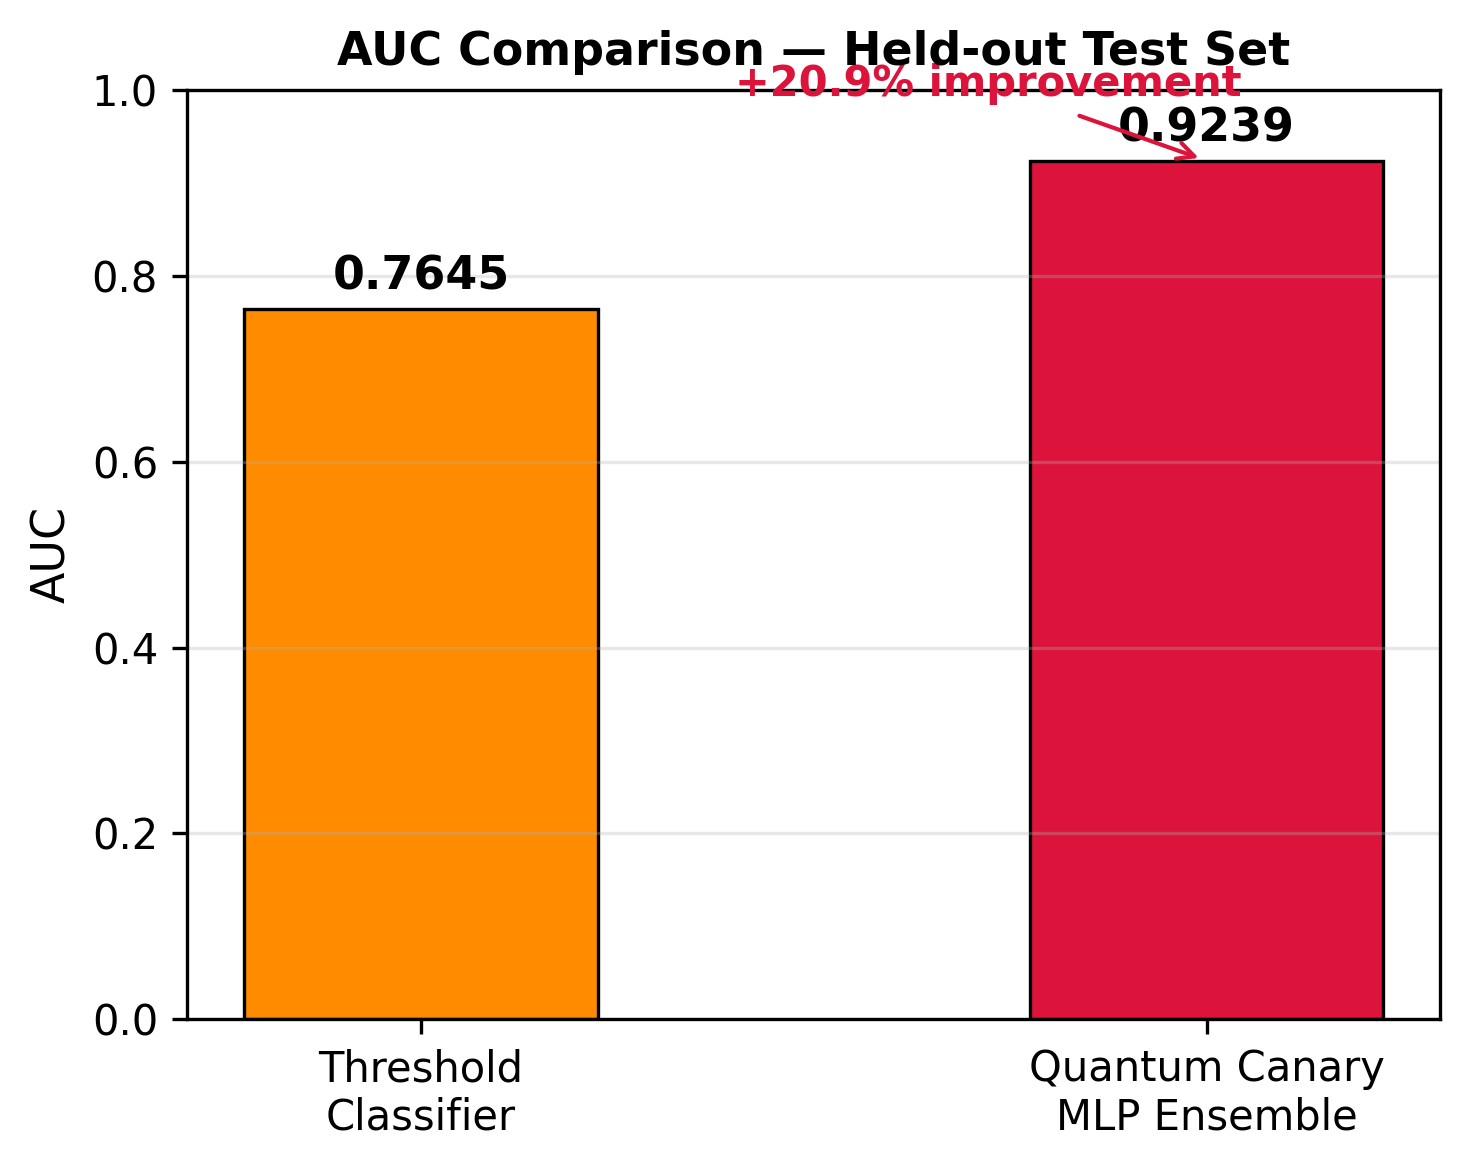
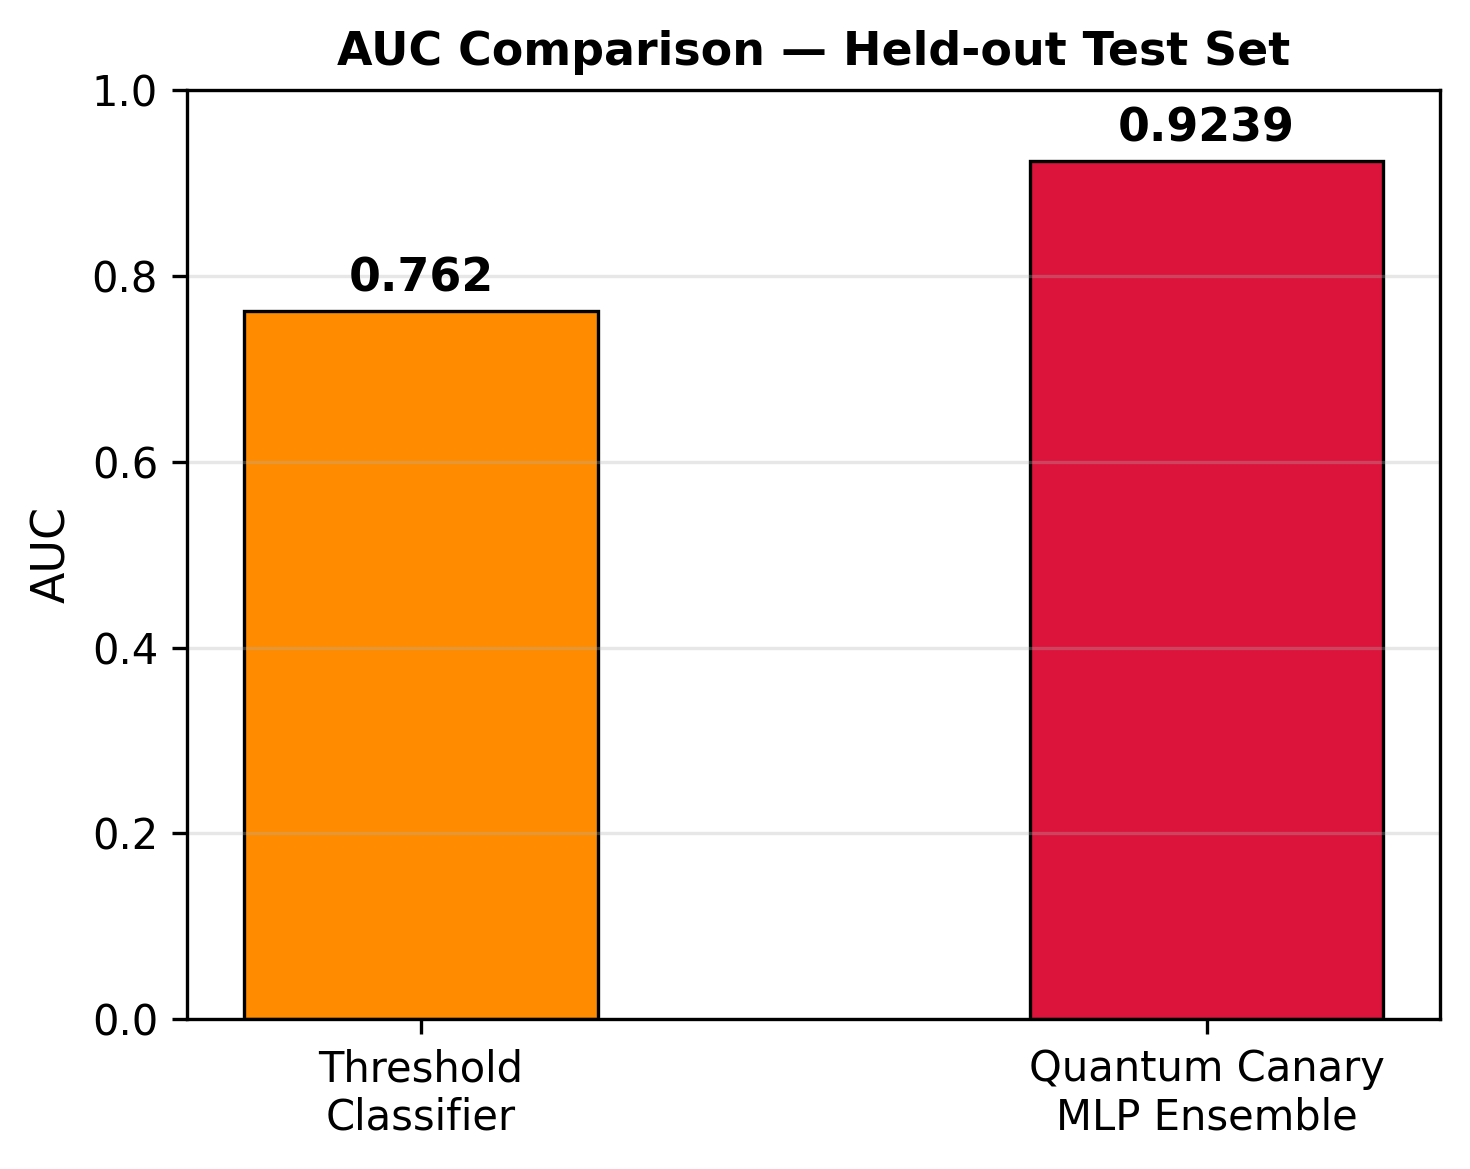
Figure editing + real IBM hardware monitoring

Changed region(s): [[0.4898, 0.0308, 0.8571, 0.1232], [0.1837, 0.2156, 0.398, 0.2772], [0.7959, 0.1232, 0.8265, 0.154]]

diff --git a/7_realtime_canary.py b/7_realtime_canary.py
@@ -193,7 +193,7 @@ y_val    = y_all[split['val']]
 scaler = StandardScaler()
 scaler.fit(X_train)
 
-val_scores = X_val.mean(axis=1)
+val_scores  = X_val.mean(axis=1) + np.random.normal(0, 0.02, len(X_val))
 best_thresh, best_f1 = 0.0, -1.0
 for t in np.linspace(val_scores.min(), val_scores.max(), 500):
     preds = (val_scores < t).astype(int)
@@ -374,9 +374,19 @@ for round_idx in range(N_ROUNDS):
         job     = sampler.run(circuits, shots=SHOTS)
         result  = job.result()
 
-        counts_bell = result[0].data.c.get_counts()
-        counts_coh  = result[1].data.meas.get_counts()
-        counts_gate = result[2].data.meas.get_counts()
+        def get_counts(res_item):
+            """Extract counts regardless of classical register name."""
+            data = res_item.data
+            for attr in vars(data):
+                try:
+                    return getattr(data, attr).get_counts()
+                except Exception:
+                    continue
+            raise ValueError(f"Could not extract counts. Registers: {vars(data)}")
+
+        counts_bell = get_counts(result[0])
+        counts_coh  = get_counts(result[1])
+        counts_gate = get_counts(result[2])
 
         fb = f_bell(counts_bell)
         fc = f_single(counts_coh)

diff --git a/6_evaluate.py b/6_evaluate.py
@@ -162,10 +162,6 @@ ax.set_title('AUC Comparison — Held-out Test Set',
 for bar, val in zip(bars, aucs_):
     ax.text(bar.get_x() + bar.get_width()/2, bar.get_height() + 0.01,
             f'{val}', ha='center', va='bottom', fontsize=11, fontweight='bold')
-ax.annotate(f'+{improvement}% improvement',
-            xy=(1, auc), xytext=(0.4, auc + 0.07),
-            fontsize=10, fontweight='bold', color='crimson',
-            arrowprops=dict(arrowstyle='->', color='crimson'))
 ax.grid(axis='y', alpha=0.3)
 plt.tight_layout()
 plt.savefig('figures/fig_auc_comparison.png', dpi=300, bbox_inches='tight')
